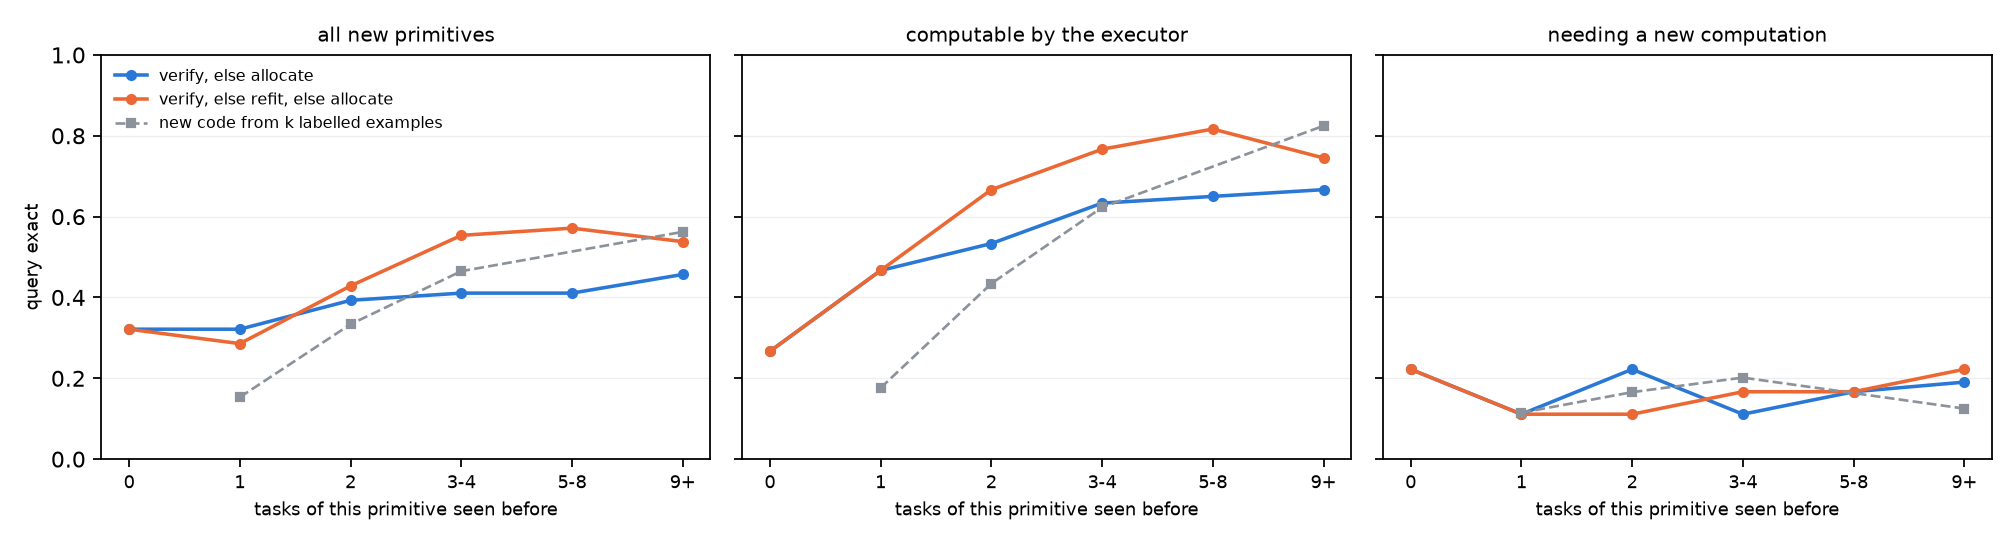
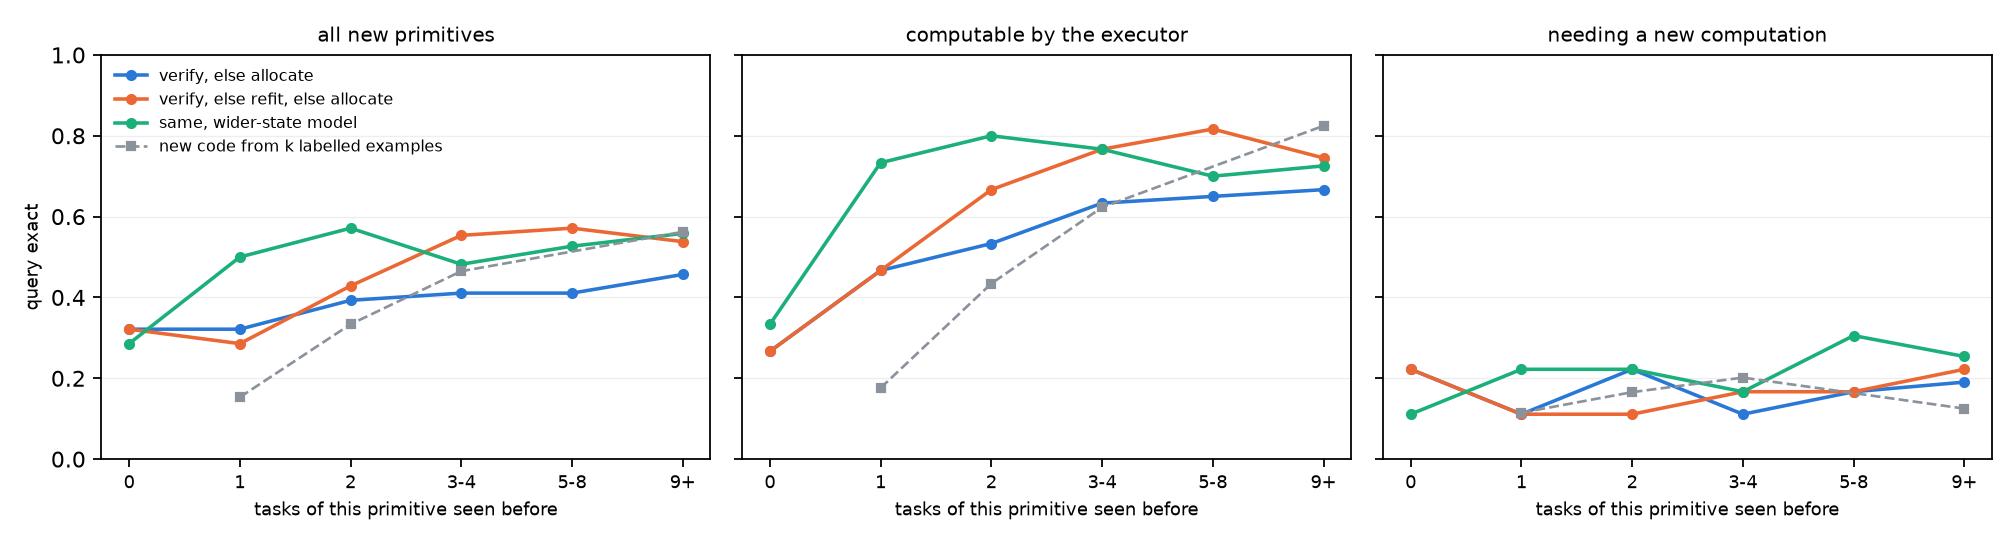
Sleep after the online fast memory: fresh rows, memory rows, random-task control, larger memory; report and log

diff --git a/scripts/babytheorist/sleep_curves.py b/scripts/babytheorist/sleep_curves.py
@@ -1,0 +1,88 @@
+#!/usr/bin/env python3
+"""Curves of a sleep that consolidates an online fast memory (configs sleep_*): at every light codebook record, the share of
+probe tasks whose query the programmer's chosen code gets right, averaged over groups of primitives: the 24 the model knew,
+the new ones a new code alone learned to 50% or more from 16 labelled examples (memory_new_codes.py, the executor can
+compute them), the new ones it did not, and the 4-cell shifts (no labelled examples). Each run is drawn as one line per
+group; a reference run (growth on the full 52-primitive file) can be added and is cut to the same steps.
+
+    python scripts/babytheorist/sleep_curves.py --runs runs/sleep_fresh_m24_to_m52_s43 runs/sleep_memory_m24_to_m52_s43 \
+        --labels "fresh rows" "fast-memory rows" --reference runs/grow_m24_to_m52_price_s43 --out docs/reports/2026-11-27-memory/sleep
+"""
+
+from __future__ import annotations
+
+import argparse
+import glob
+import json
+import re
+import sys
+from pathlib import Path
+
+import matplotlib
+
+matplotlib.use("Agg")
+import matplotlib.pyplot as plt  # noqa: E402
+import numpy as np  # noqa: E402
+
+REPO = Path(__file__).resolve().parents[2]
+sys.path.insert(0, str(REPO / "scripts" / "babytheorist"))
+import generate_many_primitives as gen  # noqa: E402
+
+COLORS = ("#2a78d6", "#eb6834", "#8b929c")
+
+
+def records(run: Path, name: str = "snapshot_lv1"):
+    out = {}
+    for path in glob.glob(str(run / "eval" / f"{name}_step*.json")):
+        step = int(re.search(r"step(\d+)", path).group(1))
+        prims = json.loads(Path(path).read_text())["primitives"]
+        out[step] = {n: e["transfer"] / max(e["tasks"], 1) for n, e in prims.items() if e["tasks"]}
+    return dict(sorted(out.items()))
+
+
+def main() -> None:
+    parser = argparse.ArgumentParser(description=__doc__, formatter_class=argparse.RawDescriptionHelpFormatter)
+    parser.add_argument("--runs", type=Path, nargs="+", required=True)
+    parser.add_argument("--labels", nargs="+", required=True)
+    parser.add_argument("--reference", type=Path)
+    parser.add_argument("--offline", type=Path, default=REPO / "runs" / "queue" / "memory_new_codes.json")
+    parser.add_argument("--offline-run", default="onestep_s_m24_hardem_pairs2_price_s43")
+    parser.add_argument("--out", type=Path, required=True)
+    args = parser.parse_args()
+    known = set(gen.SETS["24"])
+    entry = [e for e in json.loads(args.offline.read_text()) if e["run"] == args.offline_run and e.get("init") == "nearest"][-1]
+    easy = {n for n, e in entry["primitives"].items() if e["k16"]["held_out"] >= 0.5}
+    hard = {n for n in entry["primitives"] if n not in easy}
+    shift4 = {n for n in gen.SETS["52"] if n.endswith("_4") and n.startswith("shift")}
+    groups = [("known 24", known), ("new, computable", easy), ("new, new computation", hard), ("4-cell shifts", shift4)]
+    runs = list(zip(args.runs, args.labels))
+    if args.reference:
+        runs.append((args.reference, "growth, 80,000 tasks"))
+    last = min(max(records(r)) for r, _ in zip(args.runs, args.labels) if records(r))
+    fig, axes = plt.subplots(1, len(groups), figsize=(3.3 * len(groups), 3.0), sharey=True)
+    summary = {}
+    for k, (run, label) in enumerate(runs):
+        rec = {s: v for s, v in records(run).items() if s <= max(last, 100)}
+        if not rec:
+            continue
+        steps = list(rec)
+        for g, (title, names) in enumerate(groups):
+            ys = [float(np.mean([v[n] for n in names if n in v])) for v in rec.values()]
+            axes[g].plot(steps, ys, "-", color=COLORS[k % len(COLORS)], lw=1.6, label=label)
+            summary.setdefault(label, {})[title] = {str(s): round(y, 3) for s, y in zip(steps, ys) if s in (steps[0], steps[len(steps) // 2], steps[-1])}
+    for g, (title, _) in enumerate(groups):
+        axes[g].set_title(title, fontsize=9)
+        axes[g].set_xlabel("sleep steps", fontsize=8)
+        axes[g].set_ylim(0, 1)
+        axes[g].grid(axis="y", color="#eee", lw=0.6)
+    axes[0].set_ylabel("query exact, chosen code", fontsize=8)
+    axes[0].legend(fontsize=7, frameon=False, loc="lower right")
+    fig.tight_layout()
+    args.out.parent.mkdir(parents=True, exist_ok=True)
+    fig.savefig(f"{args.out}.png", dpi=160)
+    Path(f"{args.out}.json").write_text(json.dumps(summary, indent=1) + "\n")
+    print(json.dumps(summary, indent=1))
+
+
+if __name__ == "__main__":
+    main()

diff --git a/scripts/babytheorist/make_configs.py b/scripts/babytheorist/make_configs.py
@@ -890,6 +890,32 @@ def main() -> None:
         config["evals"].append({"type": "codebook_snapshot", "name": "snapshot", "every": 100, "split": "lv1", "max_tasks": 1024, "max_samples": 4000})
         config["evals"].append({"type": "codebook_snapshot", "name": "snapshot_usual", "every": 500, "split": "usual", "max_tasks": 1024, "max_samples": 4000})
         configs[f"sleep_{tag}_m24_to_m52_s43"] = config
+    # the control for what the fast memory chose (2026-11-27 17:15): the same sleep from fresh rows on 435 tasks drawn at
+    # random from the 52-primitive two-pair train file (seed 0, repeated to 40,000 rows), instead of the 435 tasks the
+    # memory kept because no code of the frozen model reproduced them.
+    config = one_step(43, steps=2000, codes=104, changes={**hard_em, "train.init_from": "runs/grow_init/m24_price_s43_to_m52_sleep_fresh.pt"},
+                      data=suite("many_p52_without4"))
+    config["data"]["type"] = "babytheorist_episodes"
+    config["data"]["train"] = [f"{DATA}/many_p52_pairs2_n435_rep/lv1_train.h5", f"{DATA}/many_p24_pairs2/lv1_train.h5"]
+    config["data"]["evals"] = {"lv1": f"{DATA}/many_p52_without4_unstreamed/lv1_eval.h5", "usual": f"{DATA}/many_p24/lv1_eval.h5"}
+    config["evals"][0]["tables"] = True
+    config["evals"][0]["every"] = 500
+    config["evals"].append({"type": "codebook_snapshot", "name": "snapshot", "every": 100, "split": "lv1", "max_tasks": 1024, "max_samples": 4000})
+    config["evals"].append({"type": "codebook_snapshot", "name": "snapshot_usual", "every": 500, "split": "usual", "max_tasks": 1024, "max_samples": 4000})
+    configs["sleep_random_m24_to_m52_s43"] = config
+    # a larger memory (2026-11-27 18:00): the sleep on 435 memory tasks learned the memory by heart and stopped rising after
+    # 500 steps (computable new primitives 81%, the others 58%). The same stream continued to 2,400 tasks (its first 800 are
+    # the same tasks), the same sleep from fresh rows on its memory, scored on the eval file without those 2,400 rows.
+    config = one_step(43, steps=2000, codes=104, changes={**hard_em, "train.init_from": "runs/grow_init/m24_price_s43_to_m52_sleep_fresh.pt"},
+                      data=suite("many_p52_without4"))
+    config["data"]["type"] = "babytheorist_episodes"
+    config["data"]["train"] = [f"{DATA}/memory_refit2400_s43_rep/lv1_train.h5", f"{DATA}/many_p24_pairs2/lv1_train.h5"]
+    config["data"]["evals"] = {"lv1": f"{DATA}/many_p52_without4_unstreamed2400/lv1_eval.h5", "usual": f"{DATA}/many_p24/lv1_eval.h5"}
+    config["evals"][0]["tables"] = True
+    config["evals"][0]["every"] = 500
+    config["evals"].append({"type": "codebook_snapshot", "name": "snapshot", "every": 100, "split": "lv1", "max_tasks": 1024, "max_samples": 4000})
+    config["evals"].append({"type": "codebook_snapshot", "name": "snapshot_usual", "every": 500, "split": "usual", "max_tasks": 1024, "max_samples": 4000})
+    configs["sleep_fresh2400_m24_to_m52_s43"] = config
     # checkpoints every 200 steps over the first 4,000 (the runs are stopped there), seeds 42 and 43 of the two-pair hard
     # EM above, for asking what the gradients of the tasks on a shared code look like around step 1,300, when seed 43's
     # orientation four settle on one code and seed 42's do not. Checkpoints do not touch the random state, so the runs

diff --git a/docs/research-log.md b/docs/research-log.md
@@ -324,3 +324,13 @@
 - 16:26 온라인 빠른 기억 두 판이 과제 800개를 마쳤다. 얼린 24개 환경 가격 seed 43 모델, 52개 환경 평가 파일의 한 단계 과제, 같은 순서. 새 primitive 정답률이 100개 구간마다 이어 쓰기 판 38, 49, 55, 46, 62, 63, 51, 49%, 원래 판 40, 33, 41, 35, 56, 50, 45, 39%다. 새 code는 150개 대 290개, 새 primitive는 28개다. 아는 primitive는 둘 다 97에서 100%다. 같은 primitive를 앞서 몇 번 봤는지로 다시 묶으면, 예시 16개로 라벨을 써서 새 code를 맞췄을 때 50% 이상 배우는 primitive 15개, 곧 executor가 이미 계산할 수 있는 것들에서 이어 쓰기 판이 앞서 0, 1, 2, 3에서 4, 5에서 8, 9번 이상 본 뒤 27, 47, 67, 77, 82, 75%다. 원래 판은 27, 47, 53, 63, 65, 67%다. 새 계산이 필요한 나머지 13개는 두 판 모두 8에서 32%에 머문다. 그림은 docs/reports/2026-11-27-memory/online.png다.
 - 16:26 이어 쓰기 판의 기억을 잠에서 가중치로 옮기는 실험. 흐름에서 자기 code로 재현되지 않아 기억에 들어간 과제 435개를 학습 파일로 만들고, 배치 절반은 24개 환경 학습 파일을 재생한다. 모든 부품을 hard EM으로 2,000스텝, 가격 없이 학습하고 흐름에 나온 800개를 뺀 평가 파일로 잰다. codebook을 104개로 키우며 새 줄을 무작위로 채운 판과, 과제를 둘 이상 담은 기억 code 42개로 채운 판을 비교한다.
 - 16:26 기억 code를 codebook에 넣으면 길이 1로 정규화되는데, 그러면 기억 과제 327개 가운데 2개만 재현한다. 정규화 전에는 325개다. 맞춘 벡터의 길이가 1.1에서 4.1, 평균 2.1이라 길이가 표현력의 일부였다. 길이 1로 묶고 원래 방향에서 300스텝 다시 맞추면 156개를 재현한다. 처음 띄운 기억 출발 잠 run은 정규화로 기억을 잃은 상태라 멈추고 runs/_failed/로 옮겼고, 다시 맞춘 벡터로 16:26에 다시 띄웠다.
+- 16:47 기억 출발 잠 run이 16:26에 GPU 메모리 부족으로 시작하자마자 실패했다. 대기열의 남은 메모리 기준이 6GB였는데 run 하나가 12GB를 쓴다. 출발점 여러 개 진단을 멈춰 자리를 내고 16:44에 다시 띄웠다. 진단은 가격 seed 43에서 primitive 13개까지 돌았고 기록은 runs/queue/memory_new_codes_starts_batched_partial.log에 있다. 앞서 출발점 하나로 잰 결과가 있어 결론에는 쓰지 않는다. 무작위 줄로 시작한 잠 run은 300스텝에 새 primitive 66%, 원래 24개 96%다.
+- 16:47 넓힌 학습 seed 43 모델로 같은 온라인 기억을 돌리고 있다. 300개까지 새 primitive 42, 49, 49%, 새 code 75개다. 같은 순서에서 가격 모델은 38, 49, 55%, 73개였다.
+- 17:09 넓힌 학습 seed 43 모델의 온라인 기억, 이어 쓰기 판, 같은 순서 800개. 새 primitive 정답률이 구간마다 42, 49, 49, 46, 62, 69, 62, 42%, 새 code 156개다. 계산할 수 있는 15개는 앞서 1, 2번 본 뒤 73%, 80%로 가격 모델의 47%, 67%보다 빨리 오르지만 9번 이상 본 뒤에는 73%로 비슷하다. 새 계산이 필요한 9개는 25에서 31%로 가격 모델의 17에서 22%보다 조금 높을 뿐이다. 학습 state를 넓혀도 code 하나로 붙일 수 있는 개념의 범위는 크게 넓어지지 않았다. primitive를 두 묶음으로 나눈 기준은 가격 모델의 라벨 진단이다.
+- 17:09 잠 두 run을 같은 스텝으로 비교. 500스텝에 새 primitive 가운데 계산할 수 있는 것이 기억 줄 출발 91%, 무작위 줄 출발 82%, 새 계산이 필요한 것이 54%와 54%, 원래 24개가 97%와 97%다. 100스텝에는 계산할 수 있는 것이 79% 대 44%다. 기억 code는 계산할 수 있는 개념의 출발을 앞당기고, 새 계산이 필요한 개념은 두 출발 모두 잠에서 executor가 바뀌며 배운다.
+- 17:09 잠의 대조 run을 대기열에 넣었다. 빠른 기억이 고른 과제 435개 대신 52개 환경 두 pair 학습 파일에서 무작위로 뽑은 과제 435개, 그 가운데 새 primitive 과제 227개로, 무작위 줄 출발의 같은 잠을 잔다. 검증에 실패한 과제만 기억에 담는 선택이 예시 효율을 높이는지 본다. GPU 메모리가 12GB 남을 때 시작한다.
+- 17:50 무작위 줄 출발 잠 run이 2,000스텝을 마쳤다. 흐름에 나오지 않은 평가 과제에서 원래 24개 99%, 새 primitive 가운데 계산할 수 있는 15개 81%, 새 계산이 필요한 9개 58%, 4칸 이동 77%다. 500스텝에 이미 82%, 54%였고 그 뒤로는 거의 오르지 않는다. 학습 과제 정확도는 100%라 기억 과제 435개를 다 외운 상태다. 52개 환경 과제 8만 개로 키운 run은 같은 스텝에 원래 24개 97%, 92%, 91%, 4칸 이동 14%다. 이 run은 4칸 이동을 학습하지 않았다. 과제 435개는 8만 개 run의 처음 500스텝만큼을 주고, 그 뒤의 일반화는 주지 못한다. 대조 run, 곧 무작위로 뽑은 과제 435개로 자는 run이 17:47에 시작했다.
+- 17:51 기억 크기를 늘리면 잠의 천장이 오르는지 보려고, 같은 가격 seed 43 모델과 같은 과제 순서로 이어 쓰기 온라인 기억을 과제 2,400개까지 돌린다. 앞 800개는 앞의 판과 같은 과제다. 끝나면 같은 방식으로 잔다.
+- 17:53 기억 줄 출발 잠 run이 1,500스텝에 원래 24개 99%, 계산할 수 있는 새것 90%, 새 계산이 필요한 새것 62%, 4칸 이동 87%다. 같은 스텝의 무작위 줄 출발은 99%, 80%, 60%, 76%다. 기억 code로 시작한 이득이 계산할 수 있는 개념과 4칸 이동에서 10점쯤이고 끝까지 유지된다. 새 계산이 필요한 개념은 두 출발이 같다.
+- 17:53 52개 환경 가격 seed 43이 24,000스텝을 마쳤다. 넷 99%, 나머지 99%다. seed 42와 44는 21,600스텝에 넷 100%, 98%다.
+- 17:53 적합도 가격 14,400스텝. 넷이 seed 43 96%, 45 66%, 46 77%다. 가격을 오래 둔 판은 seed 45가 19,200스텝 41%, seed 46이 16,800스텝 47%로 기본 가격의 최종 58%, 57%보다 낮다.

diff --git a/docs/reports/2026-11-27-autoresearch.md b/docs/reports/2026-11-27-autoresearch.md
@@ -152,6 +152,17 @@ executor가 함수에 가까워지자 긴 program의 상한도 올랐다. 24개 
 | 가격 run, seed 42, 43, 44 | 69에서 73% | 59에서 65% | 54에서 57% |
 | 넓힌 학습, seed 42, 43, 44 | 90에서 96% | 87에서 94% | 80에서 87% |
 
+상한이 오르자 꿈 학습 뒤의 탐색도 따라 올랐다. 같은 넓힌 학습 모델 위에 11월 24일과 같은 꿈 학습, 곧 얼린 executor로 만든 긴 program과 검증된 실제 pair로 programmer를 6,000스텝 학습하고, 같은 긴 평가 파일을 폭 16으로 탐색했다.
+
+| 모델 | 꿈 전 탐색, 길이 5, 6, 7 | 꿈 후 탐색 |
+|---|---|---|
+| 넓힌 학습 seed 42 | 51%, 37%, 26% | 64%, 55%, 50% |
+| 넓힌 학습 seed 43 | 42%, 27%, 19% | 63%, 46%, 43% |
+| 넓힌 학습 seed 44 | 측정 중 | 64%, 50%, 38% |
+| 이전 최고, hard EM pair 둘 seed 42에 꿈과 남은 거리 예측기 | | 52%, 41%, 27% |
+
+남은 거리 예측기 없이도 이전 최고를 넘었다. 그래도 상한 80에서 96%와의 거리가 남아, 긴 program의 병목은 다시 programmer의 탐색으로 옮겨 갔다.
+
 위 그림의 다른 선들도 같은 이야기를 한다. 환경이 24개에서 52개, 64개로 커질수록 사다리가 더 가파르게 떨어진다. primitive가 많을수록 중간 격자가 학습 분포에서 더 멀어지기 때문으로 본다. 그렇다면 큰 환경일수록 학습 state를 넓히는 것이 더 중요해야 한다. 52개 환경에서 같은 시험을 하고 있다. 꿈 학습 뒤의 탐색이 올라간 상한을 얼마나 따라가는지도 재고 있다.
 
 ## 8. 빠른 기억: 가중치를 바꾸지 않고 새 세계에 적응하기
@@ -190,6 +201,8 @@ executor가 함수에 가까워지자 긴 program의 상한도 올랐다. 24개 
 그림의 가로축은 같은 primitive의 과제를 흐름에서 앞서 몇 번 봤는지이고, 세로축은 그다음 과제 query의 정답률이다. 회색 점선은 8.2절의 라벨을 쓴 진단으로, k개 예시로 맞춘 새 code다. 가운데 칸은 그 진단에서 예시 16개로 50%를 넘은 primitive 15개, 곧 이동 거리만 다른 이동과 bbox 채우기 같은 것들이고, 오른쪽 칸은 넘지 못한 9개, 곧 거울상 붙이기 넷, 두 배 확대, 가로 늘이기, 그리고 맞추기가 불안정했던 이동 셋이다.
 
 이어 쓰는 판은 새 code를 150개로 절반만 만들었다. executor가 계산할 수 있는 primitive는 앞서 3에서 4번 본 뒤 77%, 5에서 8번 본 뒤 82%를 맞힌다. 이어 쓰지 않는 판은 63%와 65%다. 라벨로 예시를 모아 맞춘 진단과 비슷하거나 낫다. 온라인에서는 지금 과제의 support도 맞추기에 들어가므로, 앞서 i번 봤다는 것은 예시 i+1개에 가깝다. 이 primitive들의 새 code는 primitive마다 2.4개로, 이어 쓰지 않을 때의 6.8개보다 훨씬 적다. 새 계산이 필요한 primitive는 두 판 모두 11에서 22%에 머물고, primitive마다 code가 11개씩 쌓인다. 아는 primitive는 두 판 모두 97에서 100%로, 기억은 원래 지식을 건드리지 않는다.
+
+7절의 넓힌 학습 모델로 같은 흐름을 돌렸다. 그림의 초록 선이다. 계산할 수 있는 primitive는 앞서 한두 번 본 뒤 73%와 80%로 가격 모델보다 빨리 오르지만, 9번 이상 본 뒤에는 73%로 비슷하다. 새 계산이 필요한 primitive는 25에서 31%로 조금 높을 뿐이다. executor가 학습 분포 밖의 state에서 더 함수답게 움직여도, code 하나로 붙일 수 있는 개념의 범위는 크게 넓어지지 않았다.
 
 이 결과에서 두 가지를 읽는다. 하나는 빠른 기억과 이어 쓰기만으로, 라벨 없이, 가중치를 바꾸지 않고, 계산할 수 있는 새 개념을 예시 몇 개로 붙일 수 있다는 것이다. 6절의 큰 물체 세계에서는 가중치를 고쳐 적응하면 과제 256개로도 오히려 나빠졌다. 세계가 달라 숫자를 직접 견줄 수는 없지만, 적은 예시에서 가중치를 건드리지 않는 쪽이 안전하다는 점은 같다. 다른 하나는 이 방식의 한계가 executor가 이미 할 줄 아는 계산에 있다는 것이다. 새 계산이 필요한 개념에 대해 빠른 기억은 실패한 code를 쌓을 뿐이다. 그 과제들은 기억에 남아 있으므로, 잠에서 executor를 바꾸는 재료가 될 수 있다.
 

diff --git a/docs/decisions.md b/docs/decisions.md
@@ -55,3 +55,4 @@
 | 2026-11-27 | 사용자 제안 | 연구의 중심을 무작위 초기화 모델이 라벨 없이 code를 세우는 문제에서, 아는 지식 위에 새것이 싸게 붙고 비슷한 환경으로 옮겨 가는지를 보이는 쪽으로 옮긴다. 작은 환경에서는 정답을 보여 줘도 된다 | 사용자의 말이다. "꼭 randomly initialized된 멍청한 모델에서 시작해야할까? 우리가 어느정도 아는 수준은 그냥 넣어줘버리고, 작은 환경도 그냥 정답을 다 보여줘버리고, 그것보다 더 큰 환경 및 그것과 비슷하거나 작은 모든 환경에서 다 됨을 보이면 되지 않나?" 주장할 수 있는 것이 지식을 발견한다에서 지식 위에 쌓는다로 바뀐다 | 지식을 넣어 준 출발점에서도 새것을 붙이는 비용이 처음부터 배우는 것과 같을 때 |
 | 2026-11-27 | Claude Code | E-step 후보를 16개로 제한하는 방법은 쓰지 않는다 | 속도는 24개 환경 2.3배, 64개 환경 5.6배지만 세 seed 모두 넷이 36에서 37%에 굳었다. 모든 code를 시도할 때 갈라지던 seed 42까지 굳었다 | 가격 방식과 함께 썼을 때 굳지 않으면 다시 본다 |
 | 2026-11-27 | 사용자 | 학습에 같은 규칙의 pair 둘을 묶은 과제를 쓴다. 벤치마크 학습 파일에는 없는 묶음 정보이므로 논문에는 이것을 쓴다는 것과 근거를 밝히고, 랩 모델과 숫자를 견줄 때 이 차이를 적는다 | pair 하나와 둘의 차이를 설명한 뒤 사용자의 말이다. "그래 그럼 두 페어로 해봐도 되긴 하겠네." 근거는 같은 상황에서 연달아 본 것은 같은 규칙을 따른다는 시간 구조이고, 에이전트 환경에서는 에피소드가 이것을 준다. pair 하나 run은 이 선택이 필요한 이유를 보이는 비교로만 남긴다 | 벤치마크 규칙 안의 점수가 필요할 때 |
+| 2026-11-27 | Claude Code | 온라인 빠른 기억에서, 아무 code도 support를 재현하지 못하면 새 code를 할당하기 전에 기존 새 code 가운데 support 손실이 가장 낮은 셋을 차례로 그 기억과 이번 과제로 다시 맞추고, 이번 과제와 기억 과제의 75% 이상을 재현하면 그 code를 이어 쓴다. 기본 도구의 동작은 바뀌지 않고 `--reuse-refit 3`으로 켠다 | 이어 쓰지 않으면 과제 800개에 새 code가 290개, primitive마다 열 개 꼴로 생겼고 새 primitive 정답률이 오르지 않았다. 이어 쓰면 code 150개에, 계산할 수 있는 새 primitive를 앞서 3에서 8번 본 뒤 77에서 82%로, 이어 쓰지 않을 때의 63에서 65%보다 높다. 원칙에서 나온 변경이다. 새 자원을 할당하기 전에 이미 있는 code를 이어 써 본다. 셋과 75%는 Claude Code가 고른 값이고 다른 값은 재지 않았다 | 두 primitive를 한 code에 섞는 일이 늘어날 때 |
